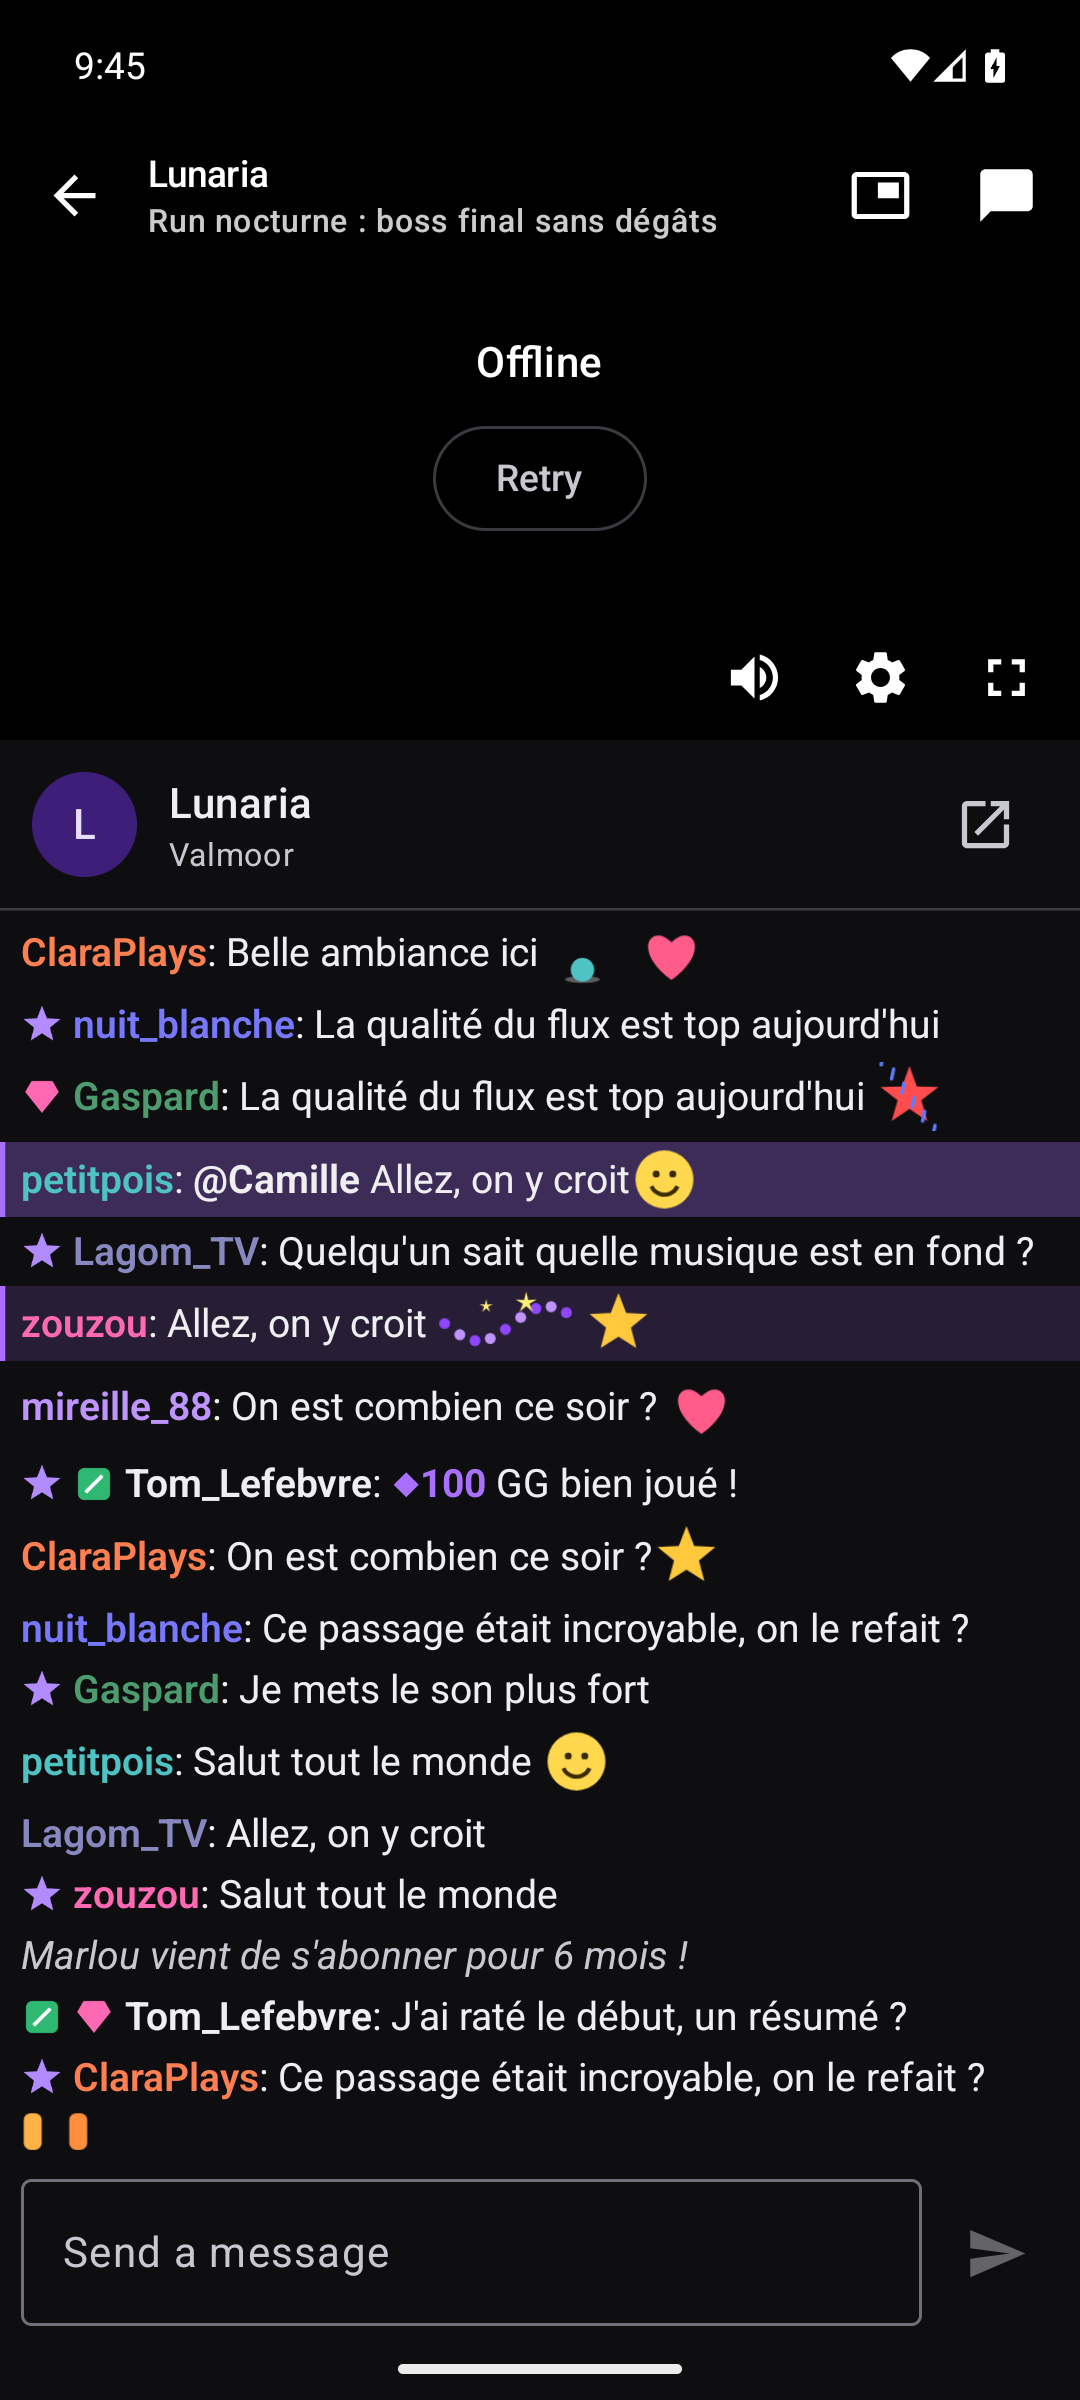
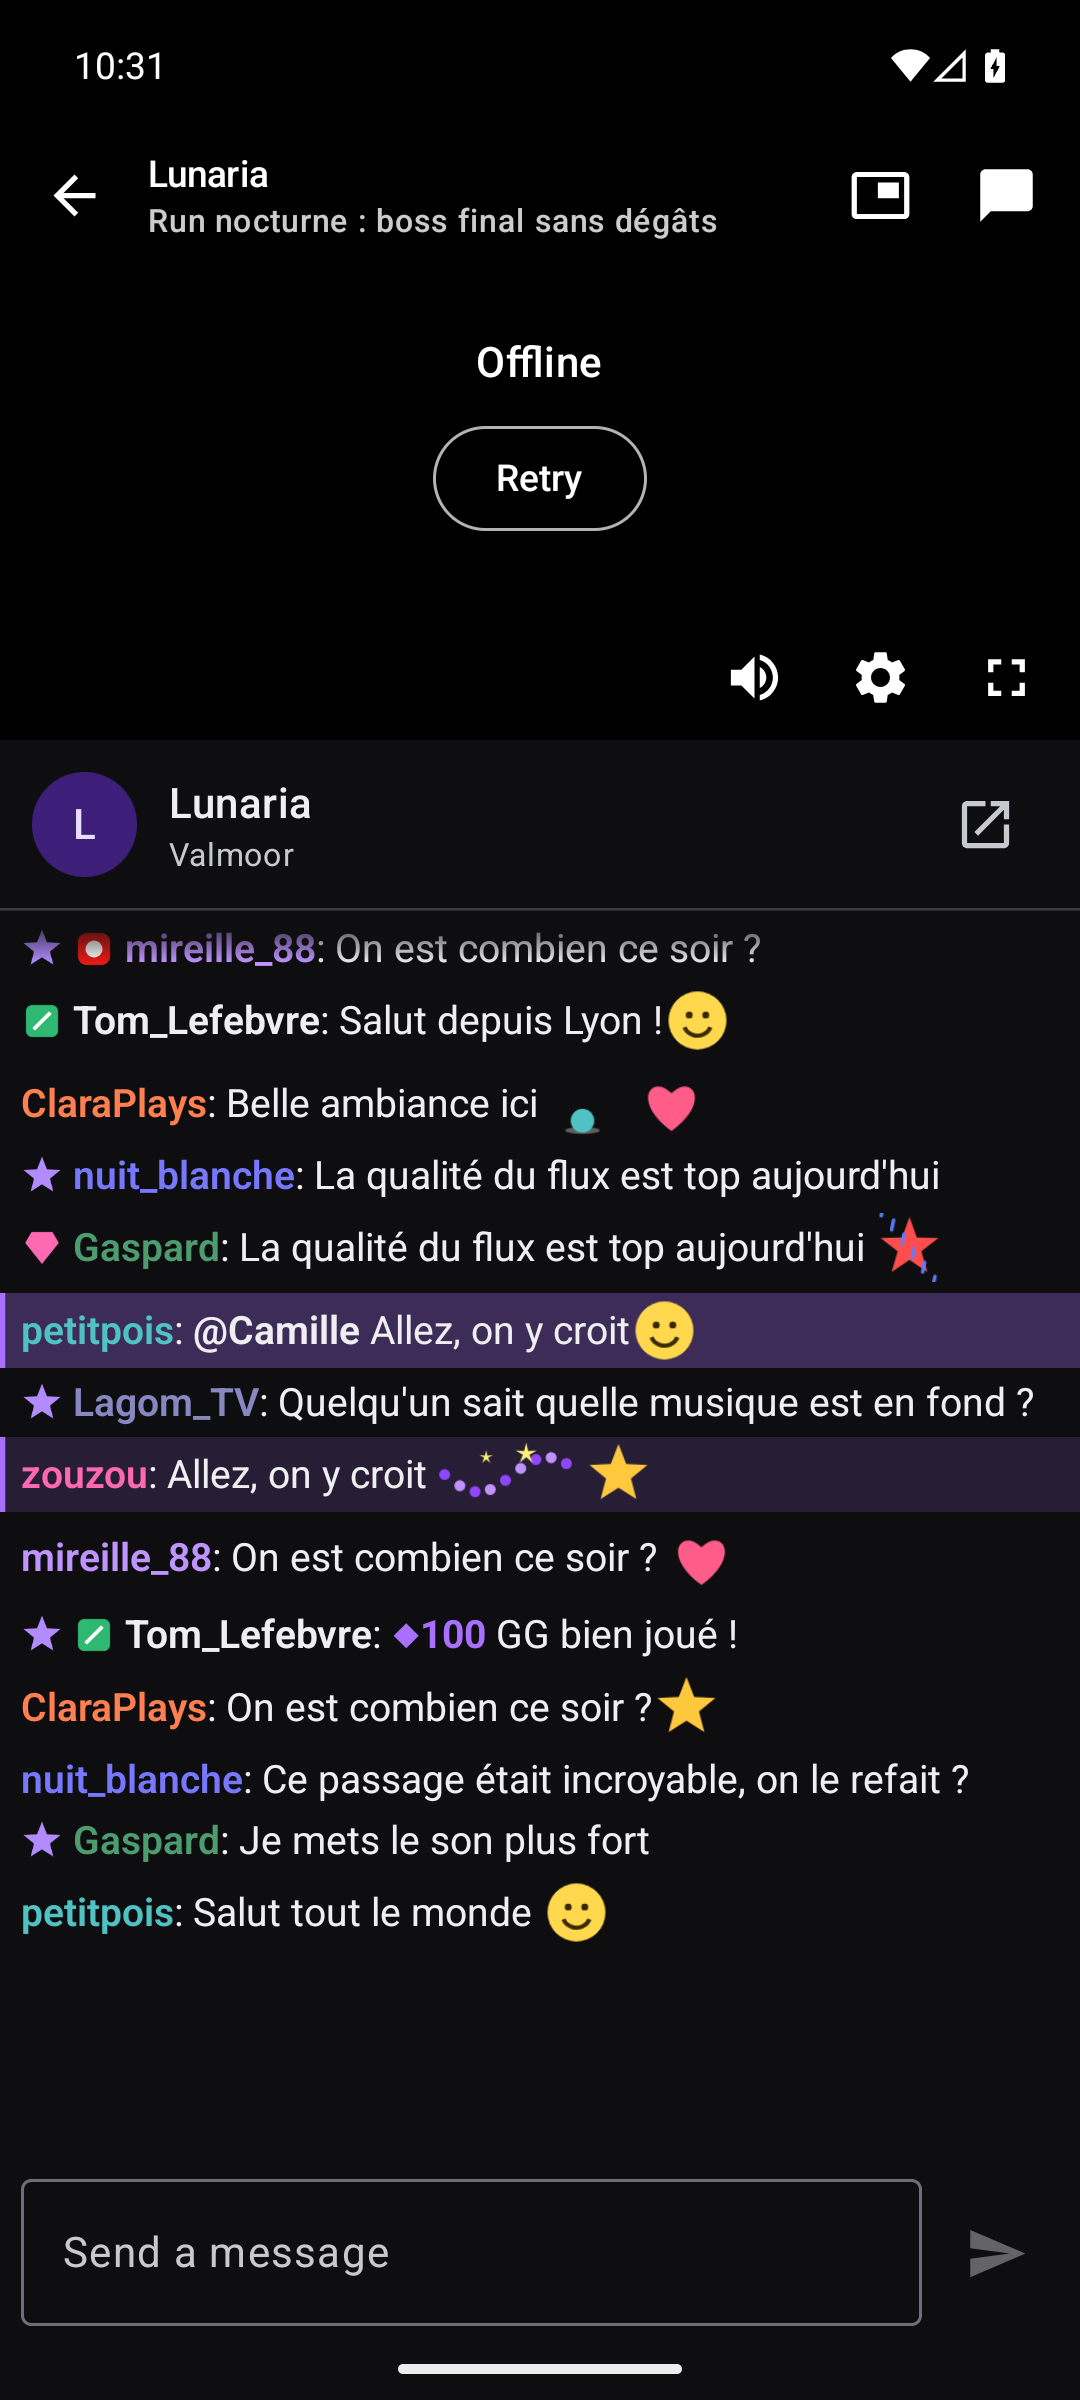
fix: readable titles on message and clip pages, replay bottom inset, final screenshots

diff --git a/phone/src/androidTest/kotlin/com/twitchplayer/phone/PhonePlayerUiTest.kt b/phone/src/androidTest/kotlin/com/twitchplayer/phone/PhonePlayerUiTest.kt
@@ -4,9 +4,7 @@ import android.content.Context
 import android.content.pm.ActivityInfo
 import android.content.res.Configuration
 import androidx.compose.ui.geometry.Offset
-import androidx.compose.ui.graphics.asAndroidBitmap
 import androidx.compose.ui.test.assertIsDisplayed
-import androidx.compose.ui.test.captureToImage
 import androidx.compose.ui.test.click
 import androidx.compose.ui.test.hasContentDescription
 import androidx.compose.ui.test.hasSetTextAction
@@ -16,7 +14,6 @@ import androidx.compose.ui.test.onAllNodesWithText
 import androidx.compose.ui.test.onNodeWithContentDescription
 import androidx.compose.ui.test.onNodeWithTag
 import androidx.compose.ui.test.onNodeWithText
-import androidx.compose.ui.test.onRoot
 import androidx.compose.ui.test.performClick
 import androidx.compose.ui.test.performTextInput
 import androidx.compose.ui.test.performTouchInput
@@ -232,7 +229,7 @@ class PhonePlayerUiTest {
 
         waitForText(string(R.string.phone_channel_offline))
         rule.onNodeWithText(string(R.string.state_retry)).assertIsDisplayed()
-        saveScreenshot("player-offline")
+        rule.saveScreenshot("player-offline")
     }
 
     @Test fun aFailedResolveOffersRetryAndRetryAsksAgain() {
@@ -247,14 +244,7 @@ class PhonePlayerUiTest {
         val before = resolver.calls
         rule.onNodeWithText(string(R.string.state_retry)).performClick()
         rule.waitUntil(WAIT_MS) { resolver.calls > before }
-        saveScreenshot("player-error")
-    }
-
-    /** Saves the screen under the app's external files folder, so a person can look at it (`adb pull`). */
-    private fun saveScreenshot(name: String) {
-        val bitmap = rule.onRoot().captureToImage().asAndroidBitmap()
-        val dir = context.getExternalFilesDir(null) ?: return
-        java.io.File(dir, "$name.png").outputStream().use { bitmap.compress(android.graphics.Bitmap.CompressFormat.PNG, 100, it) }
+        rule.saveScreenshot("player-error")
     }
 
     /** The area that answers a touch (a 24 dp glyph sits in a 48 dp button), not the visible bounds. */

diff --git a/phone/src/main/kotlin/com/twitchplayer/phone/feature/player/ReplayDetails.kt b/phone/src/main/kotlin/com/twitchplayer/phone/feature/player/ReplayDetails.kt
@@ -7,8 +7,12 @@ import androidx.compose.foundation.layout.Column
 import androidx.compose.foundation.layout.ExperimentalLayoutApi
 import androidx.compose.foundation.layout.FlowRow
 import androidx.compose.foundation.layout.Row
+import androidx.compose.foundation.layout.Spacer
+import androidx.compose.foundation.layout.WindowInsets
 import androidx.compose.foundation.layout.fillMaxWidth
+import androidx.compose.foundation.layout.navigationBars
 import androidx.compose.foundation.layout.padding
+import androidx.compose.foundation.layout.windowInsetsBottomHeight
 import androidx.compose.foundation.rememberScrollState
 import androidx.compose.foundation.verticalScroll
 import androidx.compose.material3.FilledTonalButton
@@ -84,6 +88,8 @@ fun ReplayDetails(
             }
         }
         if (info.channelLogin.isNotBlank()) MoreFromChannel(info, now, onOpenReplay)
+        // The last row stops above the gesture bar.
+        Spacer(Modifier.windowInsetsBottomHeight(WindowInsets.navigationBars))
     }
 }
 

diff --git a/phone/src/androidTest/kotlin/com/twitchplayer/phone/PhoneClipUiTest.kt b/phone/src/androidTest/kotlin/com/twitchplayer/phone/PhoneClipUiTest.kt
@@ -51,6 +51,7 @@ class PhoneClipUiTest {
 
         waitForText(string(R.string.vod_failed_net_line))
         rule.onNodeWithText(string(R.string.state_retry)).assertIsDisplayed()
+        rule.saveScreenshot("clip-error-network")
     }
 
     @Test fun aClipThatIsGoneSaysItIsUnavailableAndStillOffersRetry() {
@@ -58,6 +59,7 @@ class PhoneClipUiTest {
 
         waitForText(string(R.string.clip_unavailable_line))
         rule.onNodeWithText(string(R.string.state_retry)).assertIsDisplayed()
+        rule.saveScreenshot("clip-error-unavailable")
     }
 
     @Test fun retryResolvesTheClipAgainAndThePlayerAppearsOnceItAnswers() {
@@ -69,6 +71,8 @@ class PhoneClipUiTest {
 
         rule.waitUntil(WAIT_MS) { rule.onAllNodesWithText(string(R.string.state_retry)).fetchSemanticsNodes().isEmpty() }
         rule.onNodeWithTag(STAGE_TAG).assertIsDisplayed()
+        rule.waitForIdle()
+        rule.saveScreenshot("clip-playing")
         assertEquals(2, resolver.calls)
     }
 

diff --git a/phone/src/androidTest/kotlin/com/twitchplayer/phone/TestScreenshots.kt b/phone/src/androidTest/kotlin/com/twitchplayer/phone/TestScreenshots.kt
@@ -1,0 +1,20 @@
+package com.twitchplayer.phone
+
+import android.content.Context
+import android.graphics.Bitmap
+import androidx.compose.ui.graphics.asAndroidBitmap
+import androidx.compose.ui.test.captureToImage
+import androidx.compose.ui.test.junit4.ComposeTestRule
+import androidx.compose.ui.test.onRoot
+import androidx.test.core.app.ApplicationProvider
+import java.io.File
+
+/**
+ * Saves what the test sees as `<name>.png` under the app's external files folder (`/sdcard/Android/data/<package>/files/`), so a person
+ * can pull it and look at it. Only meaningful when the test run does not uninstall the app afterwards (`am instrument`).
+ */
+fun ComposeTestRule.saveScreenshot(name: String) {
+    val bitmap = onRoot().captureToImage().asAndroidBitmap()
+    val dir = ApplicationProvider.getApplicationContext<Context>().getExternalFilesDir(null) ?: return
+    File(dir, "$name.png").outputStream().use { bitmap.compress(Bitmap.CompressFormat.PNG, 100, it) }
+}

diff --git a/phone/src/main/kotlin/com/twitchplayer/phone/feature/player/ClipScreen.kt b/phone/src/main/kotlin/com/twitchplayer/phone/feature/player/ClipScreen.kt
@@ -182,7 +182,7 @@ private fun ClipPlayer(slug: String, url: String, title: String, onBack: () -> U
         },
         portraitContent = {
             Column(Modifier.weight(1f).fillMaxWidth().padding(16.dp), verticalArrangement = Arrangement.spacedBy(8.dp)) {
-                Text(title, style = MaterialTheme.typography.headlineSmall)
+                Text(title, style = MaterialTheme.typography.headlineSmall, color = MaterialTheme.colorScheme.onBackground)
                 if (snapshot.durationMs > 0) {
                     Text(formatUptime(snapshot.durationMs), style = MaterialTheme.typography.bodyMedium, color = MaterialTheme.colorScheme.onSurfaceVariant)
                 }

diff --git a/phone/src/main/kotlin/com/twitchplayer/phone/ui/components/States.kt b/phone/src/main/kotlin/com/twitchplayer/phone/ui/components/States.kt
@@ -64,7 +64,12 @@ fun MessageState(title: String, modifier: Modifier = Modifier, body: String? = n
         horizontalAlignment = Alignment.CenterHorizontally,
         verticalArrangement = Arrangement.Center,
     ) {
-        Text(title, style = MaterialTheme.typography.titleLarge, textAlign = TextAlign.Center)
+        Text(
+            title,
+            style = MaterialTheme.typography.titleLarge,
+            color = MaterialTheme.colorScheme.onBackground,
+            textAlign = TextAlign.Center,
+        )
         if (body != null) {
             Text(
                 body,

diff --git a/docs/phone-log.md b/docs/phone-log.md
@@ -312,3 +312,15 @@ Tools: `PKG=com.twitchplayer.phone ANDROID_SERIAL=emulator-5554 benchmark/tools/
 ## Unverified
 
 The real phone (screen locked, not used); TalkBack output (semantics checked, not the screen reader); reduced motion seen running; a completed sign-in and real chat sending with a Twitch account (chat and sending run on demo data); Picture-in-Picture before Android 12 and on devices without the feature (code path guarded and reviewed, not run); real streams (the demo clip is a 12-second looping test pattern: live-edge behaviour, ad breaks and quality switching on real HLS are the TV player's, reused, not re-measured on the phone); phone performance on hardware (emulator numbers only); no phone baseline profile yet (step D); CI on GitHub (no remote).
+
+## Step C review follow-up
+
+- Replays and clips now pause when the app goes to the background (PiP and screen lock included). A video the user paused is not resumed on return.
+- Players are released through `RememberObserver`. Clip errors separate network failures from unavailable clips, and both offer Retry.
+- The activity handles `locale|layoutDirection` itself, so switching language while playing does not restart the player on API 36. Before API 13 it uses an explicit `recreate()`.
+- Position, fullscreen lock and chat mode survive process death (`PlayerRestoration`).
+- Message-state and clip titles used the default content colour, which is black on the dark background. They now use `onBackground`. Found by looking at the screenshots.
+- `ignoreDefaultParameters` is scoped to `:phone` (`phone/detekt.yml`). `gradle/gradle-daemon-jvm.properties` was removed (added by accident).
+- The grey rectangle in the demo player is the demo video art, not a layout fault.
+- Test counts, `check --rerun-tasks` (JVM, debug variants): phone 115, shared/presenters 144 jvm + 140 android-host, shared/core 39 + 29, shared/chat 41 + 41, shared/stream 40 + 24, shared/player-api 7 + 7, platform-android 15, app 23, build-logic 11. Instrumented `:phone` suite: 44, all green on an API 36 emulator.
+- All timings in this document come from an emulator and are not device numbers.
